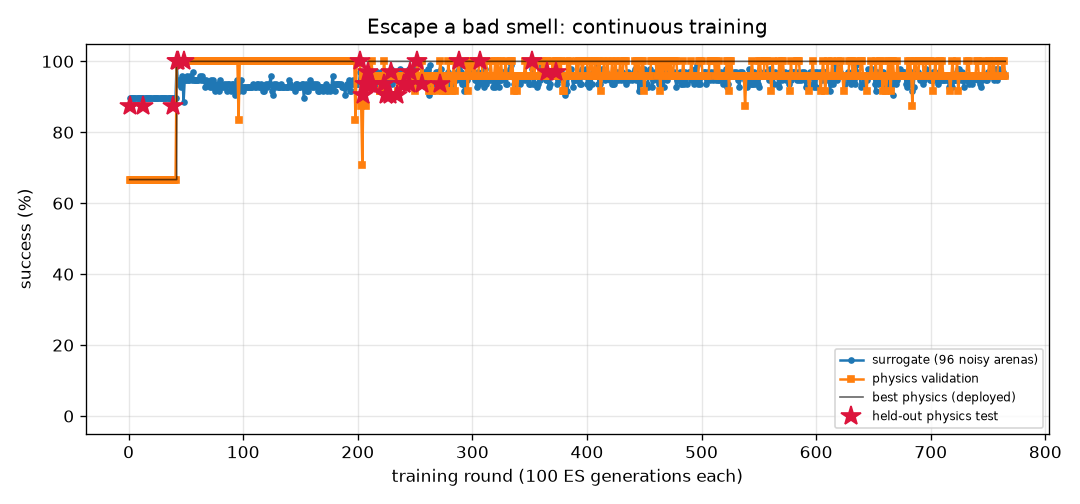
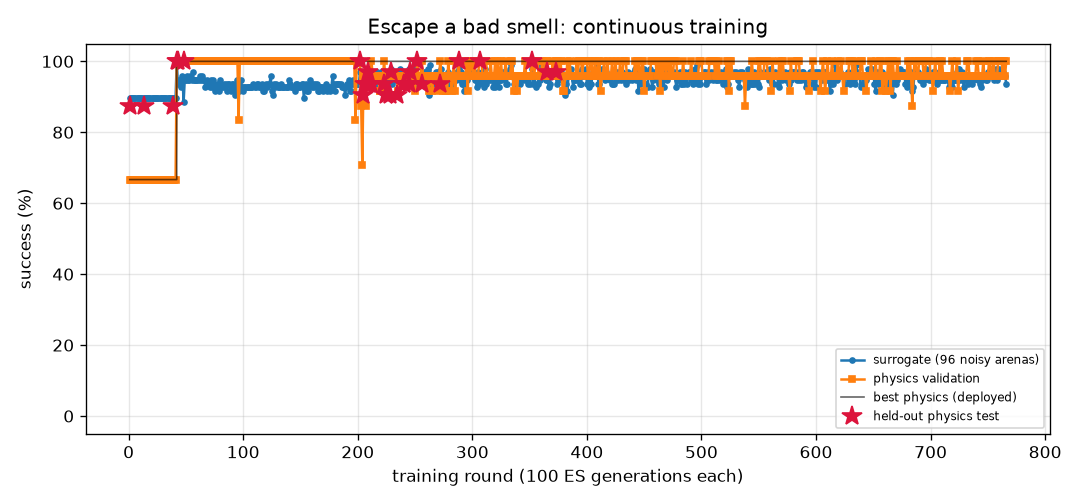
FlyLab: continuous training progress
- walk_forward: optimal, physics val 100% of 24, round 282
- turn: optimal, physics val 100% of 24, round 842
- goto: optimal, physics val 100% of 24, round 232
- odor_seek: optimal, physics val 100% of 24, round 192
- odor_avoid: optimal, physics val 100% of 24, round 766
- light_seek: optimal, physics val 100% of 24, round 426
- light_avoid: optimal, physics val 100% of 24, round 502

diff --git a/projects/09_flylab/training/odor_avoid/REPORT.md b/projects/09_flylab/training/odor_avoid/REPORT.md
@@ -1,14 +1,14 @@
 # Escape a bad smell (`odor_avoid`) — training report
 
-*Auto-generated by `train_brains.py`, last updated 2026-11-03T23:38:50.*
+*Auto-generated by `train_brains.py`, last updated 2026-11-04T10:55:19.*
 
 ![curve](curve.png)
 
 | | |
 |---|---|
-| rounds | 765 |
-| ES generations | 76500 |
-| physics runs | 15666 |
+| rounds | 766 |
+| ES generations | 76600 |
+| physics runs | 15690 |
 | status | **optimal** |
 | best brain | round 373: physics validation **100%** on 24 arenas, surrogate 97% |
 | held-out physics test | **97%** on 32 unseen arenas (95% CI 84%-99%) (errors: [62.0, 57.4, 62.6, 61.9, 59.0, 61.6, 56.5, 60.7, 31.7, 60.9, 63.1, 57.1, 61.1, 62.1, 61.5, 60.2, 62.2, 55.2, 62.1, 54.2, 61.3, 62.0, 58.0, 61.9, 59.8, 56.5, 56.3, 56.4, 56.3, 57.7, 61.9, 32.4]) |
@@ -17,7 +17,6 @@ Physics error per arena: mm gained away from source (> 6 without first approachi
 
 | round | level | gens | sigma | surrogate | physics val | val errors | test | note |
 |---:|---:|---:|---:|---:|---:|---|---:|---|
-| 726 | 3 | 72600 | 0.026 | 95% | 96% | [63.4, 55.3, 57.2, 56.5, 61.2, 61.2, 60.5, 30.4, 60.2, 59.0, 59.5, 61.1, 52.7, 57.3, 43.5, 61.6, 61.6, 62.0, 55.2, 57.9, 61.2, 47.7, 58.3, 62.0] |  |  |
 | 727 | 3 | 72700 | 0.027 | 97% | 96% | [63.3, 61.6, 57.7, 61.7, 61.8, 62.4, 62.2, 63.1, 60.7, 62.2, 58.7, 60.8, 47.3, 55.6, 33.8, 62.2, 61.1, 61.6, 53.2, 58.3, 61.1, 62.7, 61.7, 63.6] |  |  |
 | 728 | 3 | 72800 | 0.026 | 95% | 96% | [63.3, 60.4, 58.2, 59.1, 60.6, 56.5, 61.5, 21.8, 60.4, 48.8, 60.4, 60.1, 51.4, 54.7, 36.6, 60.1, 60.7, 58.8, 53.5, 55.8, 60.3, 45.6, 59.1, 41.6] |  |  |
 | 729 | 3 | 72900 | 0.027 | 93% | 96% | [63.5, 61.1, 58.4, 59.0, 61.5, 62.0, 62.1, 56.5, 60.6, 57.6, 61.9, 61.1, 51.9, 58.0, 43.8, 61.0, 61.5, 62.1, 54.9, 55.6, 61.1, 58.4, 58.9, 62.1] |  | restart from best |
@@ -57,3 +56,4 @@ Physics error per arena: mm gained away from source (> 6 without first approachi
 | 763 | 3 | 76300 | 0.026 | 97% | 96% | [58.2, 51.8, 54.0, 53.1, 58.6, 55.6, 58.3, 21.5, 57.8, 28.6, 19.7, 59.0, 47.3, 54.0, 38.5, 57.6, 59.1, 41.3, 49.5, 50.8, 59.2, 50.1, 54.7, 38.8] |  |  |
 | 764 | 3 | 76400 | 0.026 | 96% | 100% | [60.7, 58.3, 56.5, 59.1, 60.9, 59.8, 60.6, 38.2, 61.2, 31.7, 61.0, 61.3, 53.9, 57.7, 51.3, 61.4, 60.9, 60.2, 54.6, 56.1, 61.2, 61.6, 58.6, 39.0] |  |  |
 | 765 | 3 | 76500 | 0.026 | 96% | 96% | [59.0, 55.5, 54.4, 55.4, 58.6, 56.5, 59.1, 56.7, 59.4, 56.7, 40.1, 59.4, 46.7, 53.7, 32.1, 56.2, 59.6, 57.0, 48.2, 51.8, 59.8, 56.9, 55.2, 57.6] |  | restart from best |
+| 766 | 3 | 76600 | 0.026 | 94% | 100% | [62.0, 59.4, 58.3, 57.2, 61.3, 61.5, 61.4, 59.6, 59.8, 61.3, 61.2, 59.6, 54.0, 58.1, 50.6, 60.6, 60.5, 61.2, 54.2, 53.7, 59.6, 60.2, 56.9, 59.9] |  |  |

diff --git a/projects/09_flylab/training/turn/REPORT.md b/projects/09_flylab/training/turn/REPORT.md
@@ -1,14 +1,14 @@
 # Turn in place (`turn`) — training report
 
-*Auto-generated by `train_brains.py`, last updated 2026-11-04T09:26:24.*
+*Auto-generated by `train_brains.py`, last updated 2026-11-04T10:03:37.*
 
 ![curve](curve.png)
 
 | | |
 |---|---|
-| rounds | 841 |
-| ES generations | 84100 |
-| physics runs | 20430 |
+| rounds | 842 |
+| ES generations | 84200 |
+| physics runs | 20454 |
 | status | **optimal** |
 | best brain | round 80: physics validation **100%** on 24 arenas, surrogate 100% |
 | held-out physics test | **97%** on 32 unseen arenas (95% CI 84%-99%) (errors: [1.6, 3.3, 6.3, 3.7, 1.1, 0.4, 2.4, 2.9, 0.1, 2.6, 0.5, 2.7, 1.5, 3.1, 4.5, 0.2, 0.5, 1.1, 2.0, 4.4, 2.8, 3.2, 0.3, 2.2, 0.5, 3.0, 0.3, 5.4, 0.4, 1.0, 4.7, 10.7]) |
@@ -17,7 +17,6 @@ Physics error per arena: deg from target heading (< 20 = success).
 
 | round | level | gens | sigma | surrogate | physics val | val errors | test | note |
 |---:|---:|---:|---:|---:|---:|---|---:|---|
-| 802 | 3 | 80200 | 0.025 | 98% | 67% | [8.0, 7.6, 8.5, 1.4, 1.4, 2.7, 8.1, 4.6, 9.5, 2.5, 4.9, 4.3, 2.8, 1.0, 6.1, 3.3, 5.3, 5.9, 3.3, 3.7, 2.5, 4.1, 9.7, 8.9] |  |  |
 | 803 | 3 | 80300 | 0.025 | 99% | 92% | [1.5, 2.7, 1.8, 0.0, 14.2, 1.6, 7.4, 6.9, 7.9, 2.2, 5.5, 3.2, 1.4, 0.9, 5.1, 13.4, 3.6, 3.6, 2.7, 5.8, 4.2, 3.0, 7.2, 3.0] |  |  |
 | 804 | 3 | 80400 | 0.025 | 99% | 100% | [2.0, 1.5, 12.9, 0.9, 13.2, 2.3, 6.9, 9.2, 7.1, 3.1, 4.7, 3.5, 1.4, 2.5, 3.5, 13.1, 3.3, 2.6, 4.7, 4.7, 3.2, 2.7, 6.6, 8.1] |  | restart from best |
 | 805 | 3 | 80500 | 0.024 | 97% | 58% | [8.8, 9.3, 0.9, 0.8, 3.8, 0.5, 4.0, 3.9, 4.2, 0.5, 2.2, 0.9, 1.2, 3.2, 4.3, 1.2, 0.3, 0.9, 1.4, 0.7, 8.8, 2.0, 4.4, 3.6] |  |  |
@@ -57,3 +56,4 @@ Physics error per arena: deg from target heading (< 20 = success).
 | 839 | 3 | 83900 | 0.025 | 100% | 75% | [2.5, 3.4, 4.4, 0.1, 14.4, 4.4, 7.9, 6.9, 7.2, 1.8, 6.6, 2.4, 0.7, 2.0, 4.7, 2.7, 2.2, 3.5, 2.5, 2.9, 2.8, 4.3, 6.4, 8.6] |  |  |
 | 840 | 3 | 84000 | 0.024 | 99% | 96% | [9.1, 5.1, 1.4, 2.9, 4.9, 15.8, 4.7, 1.8, 3.6, 0.5, 4.7, 1.3, 1.6, 3.0, 0.4, 0.2, 1.1, 0.4, 0.3, 0.4, 5.5, 1.5, 4.6, 4.9] |  | restart from best |
 | 841 | 3 | 84100 | 0.024 | 97% | 96% | [9.5, 11.4, 4.7, 7.2, 3.1, 1.1, 0.6, 3.9, 0.3, 3.6, 0.4, 3.8, 4.4, 5.0, 0.1, 4.5, 4.1, 3.4, 4.3, 4.9, 8.0, 2.6, 0.1, 9.6] |  |  |
+| 842 | 3 | 84200 | 0.026 | 100% | 92% | [5.0, 7.4, 7.9, 0.7, 6.4, 0.9, 2.0, 2.3, 2.7, 0.3, 4.1, 2.3, 3.0, 4.5, 4.7, 0.2, 1.9, 1.0, 1.2, 1.4, 6.2, 0.1, 2.4, 1.8] |  |  |

diff --git a/projects/09_flylab/training/TRAINING.md b/projects/09_flylab/training/TRAINING.md
@@ -1,15 +1,15 @@
 # FlyLab brains — continuous training log
 
-*Auto-generated by `train_brains.py`, last updated 2026-11-04T09:26:24.*
+*Auto-generated by `train_brains.py`, last updated 2026-11-04T10:55:19.*
 
 Every skill has its own brain and its own training process: surrogate ES rounds, physics validation in MuJoCo, keep-the-best selection, and a held-out physics test that is never used for selection. See each skill's report for its full round-by-round history. Mastery is progressive: passing a level (100% physics validation, >=95% surrogate) doubles the validation and test arena sets; a brain is **optimal** once it holds up at level 3 (>=95% of 24 validation arenas) AND scores >=90% on the 32 held-out test arenas. Test columns show 95% Wilson confidence intervals.
 
 | skill | rounds | ES generations | physics runs | surrogate | physics val | **physics test** | status |
 |---|---:|---:|---:|---:|---:|---:|---|
 | [Walk forward](walk_forward/REPORT.md) | 282 | 28200 | 6782 | 100% | 100% of 24 | 100% of 32 (CI 89-100%) | **optimal** |
-| [Turn in place](turn/REPORT.md) | 841 | 84100 | 20430 | 100% | 100% of 24 | 97% of 32 (CI 84-99%) | **optimal** |
+| [Turn in place](turn/REPORT.md) | 842 | 84200 | 20454 | 100% | 100% of 24 | 97% of 32 (CI 84-99%) | **optimal** |
 | [Go to a location](goto/REPORT.md) | 232 | 23200 | 5518 | 100% | 100% of 24 | 100% of 32 (CI 89-100%) | **optimal** |
 | [Find food by smell](odor_seek/REPORT.md) | 192 | 19200 | 4038 | 100% | 100% of 24 | 100% of 32 (CI 89-100%) | **optimal** |
-| [Escape a bad smell](odor_avoid/REPORT.md) | 765 | 76500 | 15666 | 97% | 100% of 24 | 97% of 32 (CI 84-99%) | **optimal** |
+| [Escape a bad smell](odor_avoid/REPORT.md) | 766 | 76600 | 15690 | 97% | 100% of 24 | 97% of 32 (CI 84-99%) | **optimal** |
 | [Walk toward light](light_seek/REPORT.md) | 426 | 42600 | 7104 | 100% | 100% of 24 | 100% of 32 (CI 89-100%) | **optimal** |
 | [Hide from light](light_avoid/REPORT.md) | 502 | 50200 | 12320 | 100% | 100% of 24 | 100% of 32 (CI 89-100%) | **optimal** |
